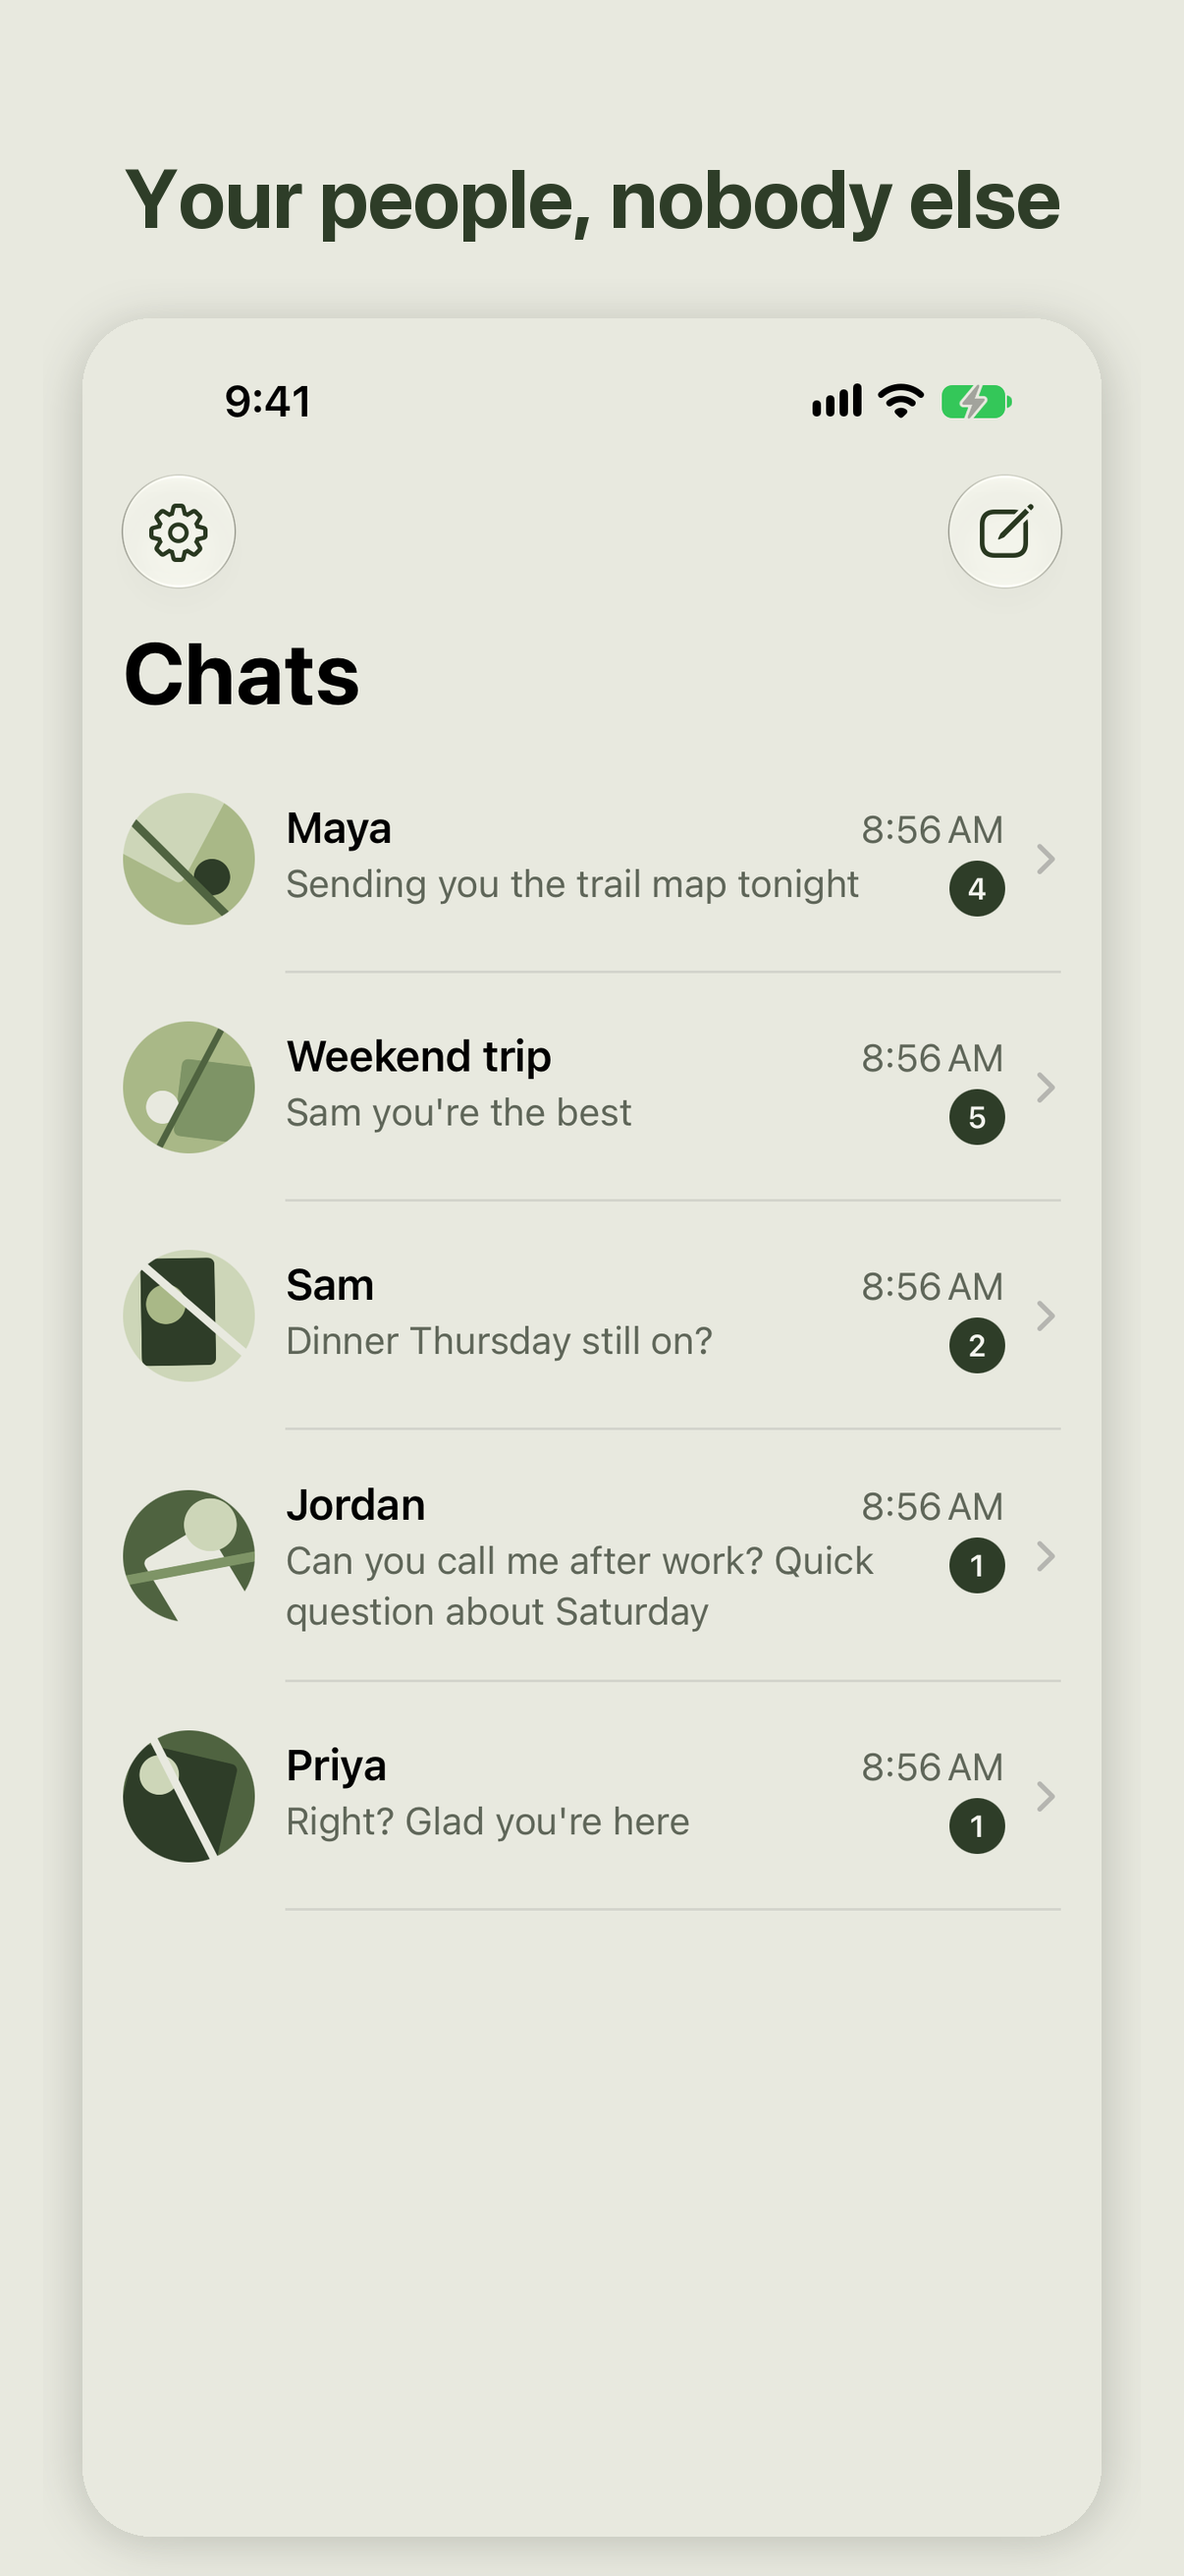
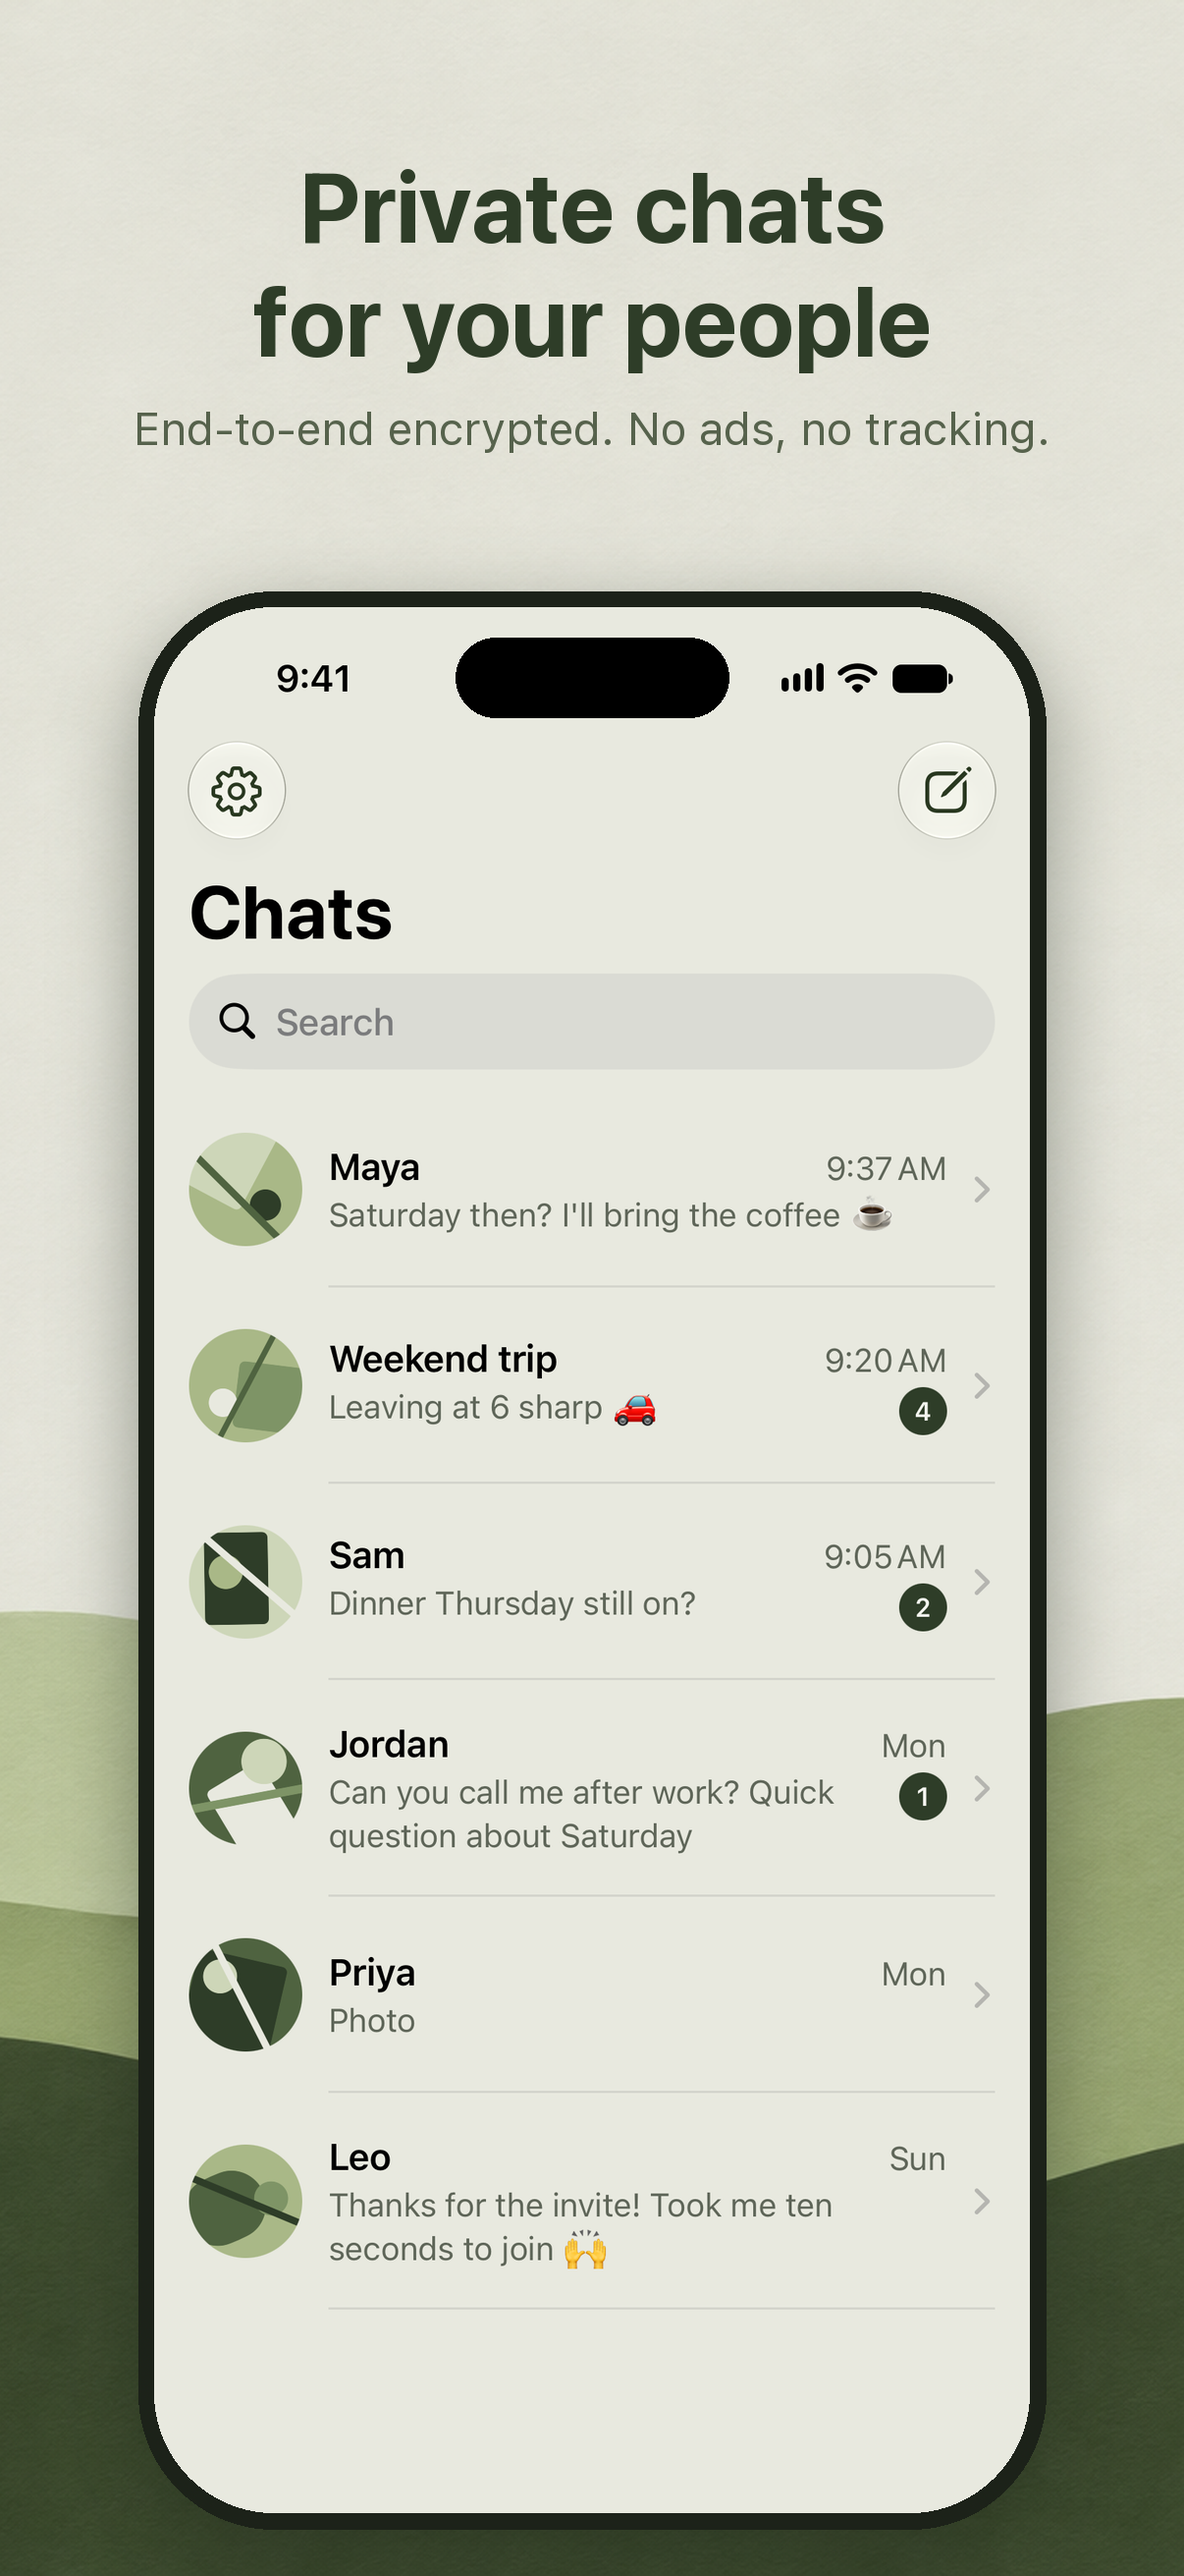
New App Store screenshots and listing text for 1.1
Seven screenshots of the real 1.1 app: chats with search, a chat with a
link preview and read receipt, a group call with Add people, search,
shared media, safety codes, and sign-in naming the GitHub repo. Each has
a headline and subline over paper-cut art from Codex image generation.

The 1.1 description adds search, link previews, shared media and group
calls; the promotional text says the app and server are open source on
GitHub. `-demoCall "<group title>"` now shows a group call grid in Debug
builds, for the call screenshot.

diff --git a/ios/App/TalkApp.swift b/ios/App/TalkApp.swift
@@ -79,12 +79,16 @@ private struct Main: View {
         Button("OK", role: .cancel) {}
       }
       #if DEBUG
-      // `-demoCall <name>` launch argument: show a call with that person, for App Store screenshots.
+      // `-demoCall <name>` launch argument: show a call with that person, or in the group of that title, for App Store screenshots.
       .task(id: talk.me == nil) {
-        guard let name = UserDefaults.standard.string(forKey: "demoCall"), let me = talk.me,
-              let u = me.users.first(where: { $0.name == name }),
-              let c = me.conversations.first(where: { $0.kind == "dm" && $0.members.contains(u.id) }) else { return }
-        calls.demo(convId: c.id, peer: u.id)
+        guard let name = UserDefaults.standard.string(forKey: "demoCall"), let me = talk.me else { return }
+        let mine = talk.account.userId
+        if let g = me.conversations.first(where: { $0.kind == "group" && $0.title == name }) {
+          calls.demo(convId: g.id, peer: mine, group: name, tiles: g.members.filter { $0 != mine })
+        } else if let u = me.users.first(where: { $0.name == name }),
+                  let c = me.conversations.first(where: { $0.kind == "dm" && $0.members.contains(u.id) }) {
+          calls.demo(convId: c.id, peer: u.id)
+        }
       }
       #endif
   }

diff --git a/ios/App/Calls.swift b/ios/App/Calls.swift
@@ -207,8 +207,9 @@ final class Calls: NSObject {
 
   #if DEBUG
   // Screenshots only: the Simulator ends every CallKit call, so this shows a live call screen with no media.
-  func demo(convId: String, peer: String) {
-    current = CallView(convId: convId, peer: peer, kind: "audio", phase: .live, since: Date().addingTimeInterval(-754), camera: false)
+  func demo(convId: String, peer: String, group: String? = nil, tiles: [String] = []) {
+    current = CallView(convId: convId, peer: peer, group: group, kind: "audio", phase: .live, since: Date().addingTimeInterval(-754), camera: false,
+                       tiles: tiles.map { Tile(id: $0, camera: false) })
   }
   #endif
 

diff --git a/docs/app-store/APP_STORE.md b/docs/app-store/APP_STORE.md
@@ -46,43 +46,37 @@ If the name is taken when you create the record, use `Talk Circle: Private Calls
 | Apple silicon Macs | Off for 1.0 (CallKit and PushKit behave differently there; turn on once tested) |
 | Apple Vision Pro | Off |
 
-## Version 1.0 page
+## Version page (1.1)
 
 **Promotional text** (170, can change any time without review):
 
 ```
-Messages, photos, voice notes and calls that only you and your people can read. Invite-only and end-to-end encrypted, on a server you can run yourself.
+Encrypted messages and calls for your circle, on a server you or a friend runs. The app and server are open source on GitHub: github.com/Princeu3/talk
 ```
 
 **Description** (4000):
 
 ```
-Talk is a private messenger for a small circle: family, close friends, a team of a few people. Everything you send is encrypted on your phone before it leaves it.
+Talk is a private messenger for family, friends and small teams. Connect to a Talk server using an invite link from its operator.
 
 MESSAGES
-• Text, photos, files and voice messages
-• One-to-one chats and groups
-• Read state and unread counts
+Send text, photos, files and voice messages in one-to-one chats and groups. Reply, react, edit what you sent, and see when your messages are read. Messages are encrypted on your device before they leave it.
+
+SEARCH AND SHARED MEDIA
+Search all your chats. Search runs on your phone, so the server never sees what you look for. Links show a preview made on your device, and each chat keeps its photos, videos, links and files in one place.
 
 CALLS
-• Voice and video calls between two people
-• Calls ring like phone calls, on the lock screen and in Recents
-• Calls go directly between phones when they can, and through an encrypted relay when a network blocks that
+Make voice and video calls, one to one or with up to 8 people in a group, and ring more people in while a call is on. Incoming calls integrate with the iPhone lock screen through CallKit.
 
-PRIVATE BY DESIGN
-• End-to-end encrypted: the server stores only ciphertext
-• No phone number and no email: you sign in with a name and a passphrase that never leaves your device
-• Safety codes let you check that nobody swapped a key
-• Notifications are decrypted on your phone; push servers see only ids
-• No ads, no tracking, no analytics
+YOUR CIRCLE
+Sign in with a name and a passphrase. Compare safety codes with your contacts, block people, report messages and delete your account from Settings.
 
-YOUR OWN SERVER
-Talk connects to a Talk server. Someone in your circle runs one (it deploys to Railway in a few minutes, and the code is open source), then sends invite links. Open the link, choose a name and a passphrase, and you're in.
+YOUR SERVER
+Talk is an open-source client for self-hosted Talk servers. You need a server address and an existing account or an invite link to get started. No phone number or email address is required for your Talk account. The server is open source too, so anyone can run their own.
 
-SAFETY
-Block anyone, report a message or a person, and delete your account from Settings at any time.
+Keep your passphrase safe: it cannot be reset to recover your encrypted message history.
 
-Talk needs an invite link from someone who runs a Talk server.
+Based on the open-source Talk project: https://github.com/Princeu3/talk
 ```
 
 **Keywords** (100 bytes, comma separated, no spaces after commas, no words already in the name or subtitle):
@@ -95,7 +89,7 @@ messenger,e2ee,secure,voice,video,family,friends,self-hosted,invite,group,voip,o
 | --- | --- |
 | Support URL | `https://push.princeuniverse.dev/support` |
 | Marketing URL | `https://github.com/Princeu3/talk` |
-| Version | 1.0 |
+| Version | 1.1 |
 | Copyright | `2026 Talk` |
 | Routing app coverage file | None |
 | Version release | Manually release this version |
@@ -109,16 +103,17 @@ Required set: **iPhone 6.3" (Dynamic Island, medium), 1206 × 2622 portrait**, P
 
 Upload in this order from `docs/app-store/screenshots/`:
 
-| File | Shows | Caption on the image |
+| File | Shows | Headline on the image |
 | --- | --- | --- |
-| `01-chats.png` | Chat list | Your people, nobody else |
-| `02-chat.png` | A conversation with a photo and a voice message | Messages only you can read |
-| `03-call.png` | In-call screen | Calls that ring like a phone |
-| `04-group.png` | A group chat | Groups for the whole circle |
-| `05-safety.png` | Settings with safety codes | Check that nobody swapped a key |
-| `06-join.png` | Join with an invite link | Join with one invite link |
+| `01-chats.png` | Chat list with search | Private chats for your people |
+| `02-chat.png` | A chat with a photo, a link preview, a voice message and a read receipt | Messages only you can read |
+| `03-call.png` | A group call, with Add people | Group calls, add anyone |
+| `04-search.png` | Search results across chats | Find any message |
+| `05-media.png` | A group's shared media | Every photo, link and file |
+| `06-safety.png` | Settings with safety codes | Check nobody swapped a key |
+| `07-server.png` | Sign in with an invite link or server | Your server. Open code. (names github.com/Princeu3/talk) |
 
-Each shows the real app. Captions sit above the screenshot on the palette background, which App Review allows (guideline 2.3.3: show the app in use).
+Each shows the real app (a Debug build on the iPhone 18 Pro Simulator against a local server with demo people; `-demoCall "<group title>"` shows a group call). A one-line subline sits under each headline, over a paper-cut background from Codex image generation in the palette; the photos in the chats are generated too, and the link card's image is a public-domain National Park Service photo. App Review allows this (guideline 2.3.3: show the app in use).
 
 App preview video: optional; skip for 1.0.
 

diff --git a/CLAUDE.md b/CLAUDE.md
@@ -27,7 +27,7 @@ Node 24+ runs `server/*.ts` directly (type stripping): imports need `.ts` extens
 - Send messages through `send()` in `useTalk.ts` / `Talk.swift`: it queues a sealed `Pending` row with a `cid` so a resend stores once. Never emit the socket `send` without a `cid`, or a retry after a lost ack stores a duplicate.
 - The share extension (`ios/Share`) gets about 120 MB: map shared files and upload sealed ones from disk with `API.data(file:)`, never as an in-memory body (that costs two more copies). Check its peak with `footprint -p <pid>` in the Simulator.
 - The iPhone app's crypto must match `src/lib/crypto.ts` byte for byte; `ios/Tests/vectors.json` comes from `ios/Tests/make-vectors.ts`, so regenerate it after any web crypto change.
-- The Simulator ends every CallKit call (no system call UI there), so calls only test on a device. Messages, sign-in and settings test fine against a local server (`http://localhost:<port>/?invite=...`, allowed by `NSAllowsLocalNetworking`). For App Store screenshots, launch a Debug build with `-demoCall <name>` to show a live call screen with that person.
+- The Simulator ends every CallKit call (no system call UI there), so calls only test on a device. Messages, sign-in and settings test fine against a local server (`http://localhost:<port>/?invite=...`, allowed by `NSAllowsLocalNetworking`). For App Store screenshots, launch a Debug build with `-demoCall <name>` to show a live call screen with that person, or with a group title for a group call grid.
 - CI builds the iPhone app with Xcode 26.6, whose type checker is slower than local Xcode 27: split long SwiftUI bodies into separate properties and keep operators out of `ForEach` closures. Reproduce a CI "unable to type-check" locally by adding `-Xfrontend -solver-disable-prune-disjunctions -Xfrontend -solver-disable-prepared-overloads -Xfrontend -solver-disable-optimize-operator-defaults -Xfrontend -solver-disable-binding-optimizations` to `OTHER_SWIFT_FLAGS`.
 - Test browser profiles may keep year-cached 500s for old attachments; a 500 with no server log line is that cache, not a bug.
 
